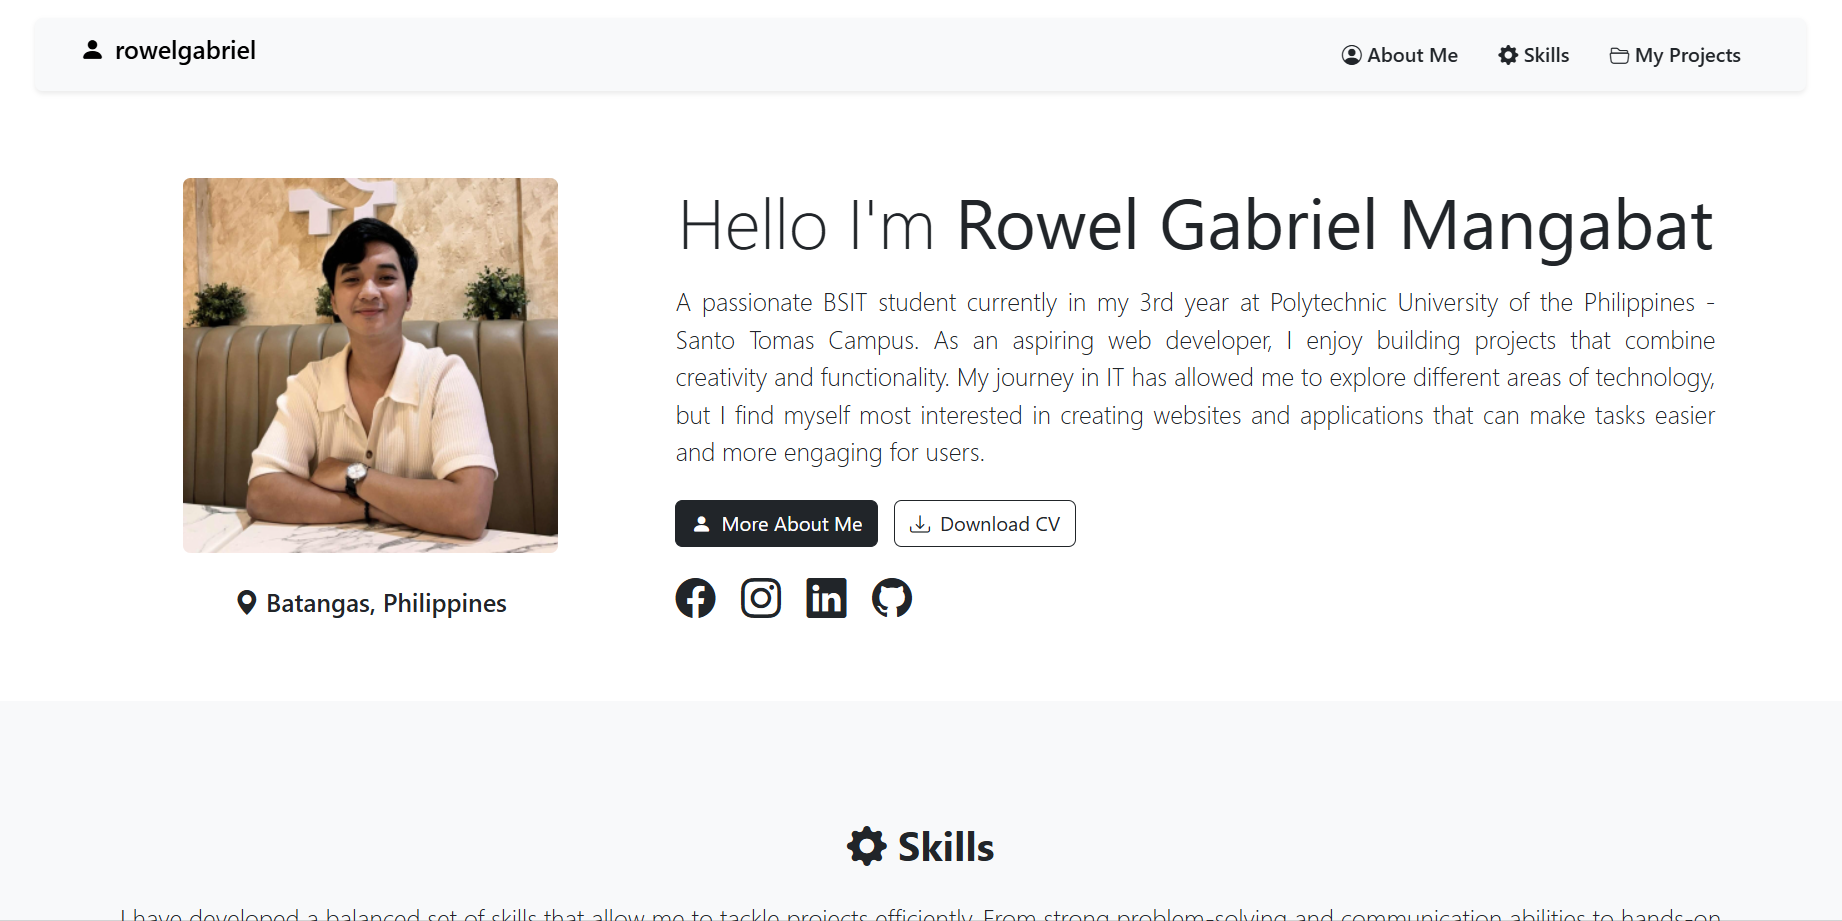
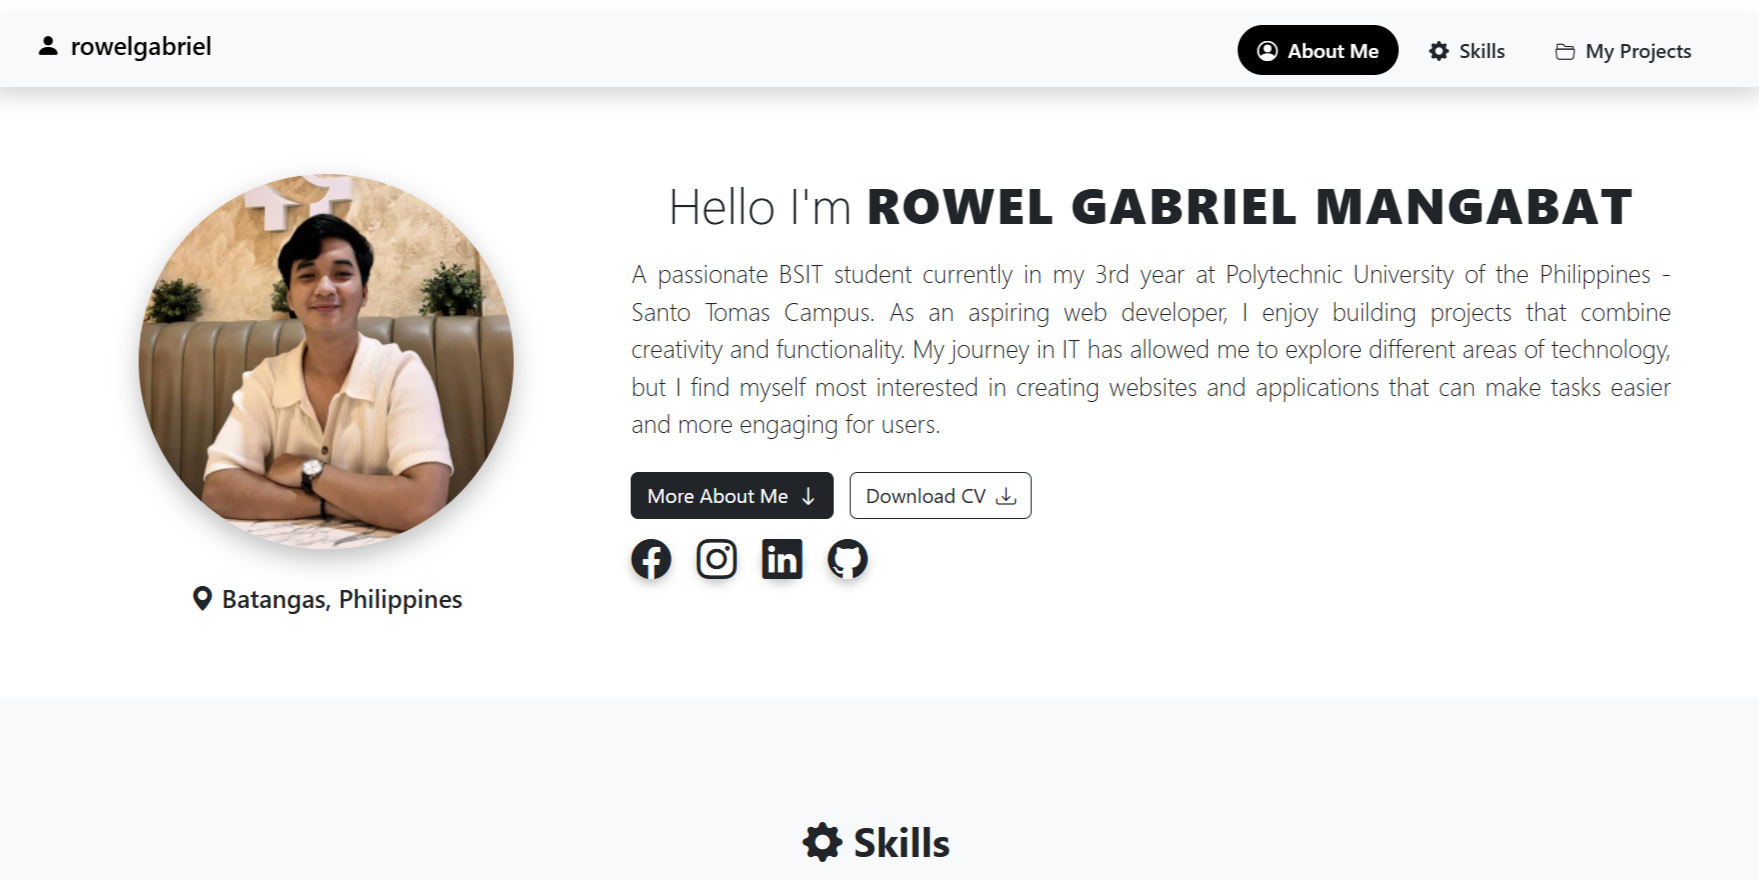
styles on skills and projects added

diff --git a/index.html b/index.html
@@ -26,17 +26,17 @@
       <div class="collapse navbar-collapse" id="navbarNav">
         <ul class="navbar-nav ms-auto">
           <li class="nav-item">
-            <a class="nav-link fw-semibold text-dark mx-2 active" href="#about">
+            <a id="nav-sec" class="nav-link fw-semibold text-dark rounded-5 px-lg-3 mx-lg-1" href="#about">
               <i class="bi bi-person-circle me-1"></i> About Me
             </a>
           </li>
           <li class="nav-item">
-            <a class="nav-link fw-semibold text-dark mx-2 active" href="#skills">
+            <a id="nav-sec" class="nav-link fw-semibold text-dark rounded-5 px-lg-3 mx-lg-1" href="#skills">
               <i class="bi bi-gear-fill me-1"></i> Skills
             </a>
           </li>
           <li class="nav-item">
-            <a class="nav-link fw-semibold text-dark mx-2 active" href="#projects">
+            <a id="nav-sec" class="nav-link fw-semibold text-dark rounded-5 px-lg-3 mx-lg-1" href="#projects">
               <i class="bi bi-folder2-open me-1"></i> My Projects
             </a>
           </li>
@@ -121,7 +121,7 @@
           <div class="row g-3">
             <!-- problem solving -->
             <div class="col-12">
-              <div class="card shadow-sm h-100 px-4">
+              <div class="card shadow-sm h-100 px-4 skills-card">
                 <div class="card-body">
                   <h5 class="card-title text-center"><i class="bi bi-lightbulb-fill me-2 text-warning"></i>Problem
                     Solving</h5>
@@ -133,7 +133,7 @@
             </div>
             <!-- good communication -->
             <div class="col-12">
-              <div class="card shadow-sm h-100 px-4">
+              <div class="card shadow-sm h-100 px-4 skills-card">
                 <div class="card-body">
                   <h5 class="card-title text-center"><i class="bi bi-people-fill me-2 text-primary"></i>Good
                     Communication</h5>
@@ -145,7 +145,7 @@
             </div>
             <!-- time management -->
             <div class="col-12">
-              <div class="card shadow-sm h-100 px-4">
+              <div class="card shadow-sm h-100 px-4 skills-card">
                 <div class="card-body">
                   <h5 class="card-title text-center"><i class="bi bi-clock-fill me-2 text-success"></i>Time Management
                   </h5>
@@ -166,7 +166,7 @@
 
             <!-- Frontend -->
             <div class="col-12">
-              <div class="card shadow-sm h-100 px-4">
+              <div class="card shadow-sm h-100 px-4 skills-card">
                 <div class="card-body">
                   <h5 class="card-title mb-2 d-flex justify-content-center align-items-center gap-2">
                     Frontend
@@ -188,7 +188,7 @@
 
             <!-- Backend -->
             <div class="col-12">
-              <div class="card shadow-sm h-100 px-4">
+              <div class="card shadow-sm h-100 px-4 skills-card">
                 <div class="card-body">
                   <h5 class="card-title mb-2 d-flex justify-content-center align-items-center gap-2">
                     Backend
@@ -211,7 +211,7 @@
 
             <!-- Dev Tools Card -->
             <div class="col-12">
-              <div class="card shadow-sm h-100 px-4">
+              <div class="card shadow-sm h-100 px-4 skills-card">
                 <div class="card-body">
                   <h5 class="card-title mb-2 d-flex justify-content-center align-items-center gap-2">
                     Dev Tools
@@ -250,13 +250,13 @@
       <div class="row g-4">
         <!-- My Portfolio -->
         <div class="col-lg-4 col-md-6 col-12">
-          <div class="card shadow-sm h-100">
+          <div class="card shadow-sm h-100 projects-card">
             <img src="images/portfolio.png" class="card-img-top" alt="My Portfolio">
             <div class="card-body d-flex flex-column">
               <h5 class="card-title">My Portfolio</h5>
               <p class="card-text">A personal website showcasing my skills, projects, and experiences as a web
                 developer.</p>
-              <a href="#about" class="btn btn-dark mt-auto" target="_blank" rel="noopener noreferrer">
+              <a href="#about" class="btn btn-dark mt-auto projects-btn" target="_blank" rel="noopener noreferrer">
                 View Website
               </a>
             </div>
@@ -264,13 +264,13 @@
         </div>
         <!-- iPhone Air -->
         <div class="col-lg-4 col-md-6 col-12">
-          <div class="card shadow-sm h-100">
+          <div class="card shadow-sm h-100 projects-card">
             <img src="images/iphone-air.png" class="card-img-top" alt="iPhone Air">
             <div class="card-body d-flex flex-column">
               <h5 class="card-title">iPhone Air</h5>
               <p class="card-text">A modern e-commerce concept website for iPhone Air, highlighting design and
                 features.</p>
-              <a href="#about" class="btn btn-dark mt-auto" target="_blank" rel="noopener noreferrer">
+              <a href="#about" class="btn btn-dark mt-auto projects-btn" target="_blank" rel="noopener noreferrer">
                 View Website
               </a>
             </div>
@@ -278,14 +278,14 @@
         </div>
         <!-- Pangasinan -->
         <div class="col-lg-4 col-md-6 col-12">
-          <div class="card shadow-sm h-100">
+          <div class="card shadow-sm h-100 projects-card">
             <img src="images/pangasinan.png" class="card-img-top" alt="Pangasinan">
             <div class="card-body d-flex flex-column">
               <h5 class="card-title">Pangasinan</h5>
               <p class="card-text">A travel and tourism website showcasing Pangasinan’s beauty and culture with
                 interactive design.
               </p>
-              <a href="#about" class="btn btn-dark mt-auto" target="_blank" rel="noopener noreferrer">
+              <a href="#about" class="btn btn-dark mt-auto projects-btn" target="_blank" rel="noopener noreferrer">
                 View Website
               </a>
             </div>

diff --git a/style.css b/style.css
@@ -1,50 +1,18 @@
-/* ---general styles--- */
+/* --- general styles --- */
 body {
   scroll-behavior: smooth;
 }
 
-/* ---navbar styles---*/
-
-/* sections */
-.navbar-nav .nav-link {
-  position: relative;
-  transition: all 0.3s ease;
+/* navbar section */
+#nav-sec:hover {
+  color: white !important;
+  background-color: black;
 }
 
-/* sections hover */
-.navbar-nav .nav-link:hover {
-  transform: translateY(-4px);
-  position: relative;
-}
-
-.navbar-nav .nav-link:hover i {
-  transform: translateX(4px);
-}
-
-.navbar-nav .nav-link:hover::after {
-  content: "";
-  position: absolute;
-  left: 50%;
-  bottom: 0;
-  transform: translateX(-50%);
-  width: 70%;
-  height: 3px;
-  background-color: #222;
-  border-radius: 2px;
-}
-
-/* hover effect disabled on the toggle bar */
-@media (max-width: 992px) {
-  .navbar-nav .nav-link:hover::after {
-    content: none;
-  }
-}
-
-/* ---about styles--- */
+/* --- about section --- */
 
 /* main pic */
 .main-pic {
-  border: 2.3px solid black;
   box-shadow: 0 8px 20px rgba(0, 0, 0, 0.25);
   transition: transform 0.3s ease, box-shadow 0.3s ease;
 }
@@ -63,12 +31,14 @@ body {
 }
 
 /* more about me and download cv button */
-.cv-btn:hover, .about-btn:hover {
+.cv-btn:hover,
+.about-btn:hover {
   box-shadow: 0 6px 10px rgba(0, 0, 0, 0.2);
   transform: translateY(-2px);
 }
 
-.cv-btn:active, .about-btn:active {
+.cv-btn:active,
+.about-btn:active {
   transform: translateY(1px);
   box-shadow: 0 2px 4px rgba(0, 0, 0, 0.15);
 }
@@ -80,16 +50,64 @@ body {
   justify-content: center;
   border-radius: 50%;
   transition: all 0.25s ease;
-  box-shadow: 0 4px 8px rgba(0,0,0,0.25);
+  box-shadow: 0 4px 8px rgba(0, 0, 0, 0.25);
   cursor: pointer;
 }
 
 .social-btn:hover {
   transform: translateY(-3px);
-  box-shadow: 0 6px 12px rgba(0,0,0,0.35);
+  box-shadow: 0 6px 12px rgba(0, 0, 0, 0.35);
 }
 
 .social-btn:active {
   transform: translateY(1px);
-  box-shadow: 0 2px 5px rgba(0,0,0,0.25);
+  box-shadow: 0 2px 5px rgba(0, 0, 0, 0.25);
+}
+
+/* --- skills section --- */
+
+.skills-card{
+  transition: transform 0.3s ease, box-shadow 0.3s ease;
+}
+
+.skills-card:hover{
+  transform: translateY(-7px);
+  box-shadow: 0 6px 25px rgba(0, 0, 0, 0.15) !important;
+}
+
+/* --- projects section --- */
+
+/* projects cards */
+.projects-card {
+  transition: transform 0.3s ease, box-shadow 0.3s ease;
+  position: relative;
+  overflow: hidden;
+}
+
+.projects-card:hover {
+  transform: translateY(-7px);
+  box-shadow: 0 6px 25px rgba(0, 0, 0, 0.15) !important;
+}
+
+/* projects images */
+.projects-card img {
+  transition: transform 0.3s ease;
+}
+
+.projects-card:hover img {
+  transform: scale(1.05);
+}
+
+/* projects buttons */
+.projects-btn {
+  transition: all 0.3s ease;
+  border: 2px solid transparent;
+}
+
+/* Button Hover Effect */
+.projects-btn:hover {
+  background-color: #f0f0f0;
+  color: black;
+  border-color: black;
+  transform: translateY(-4px);
 }
